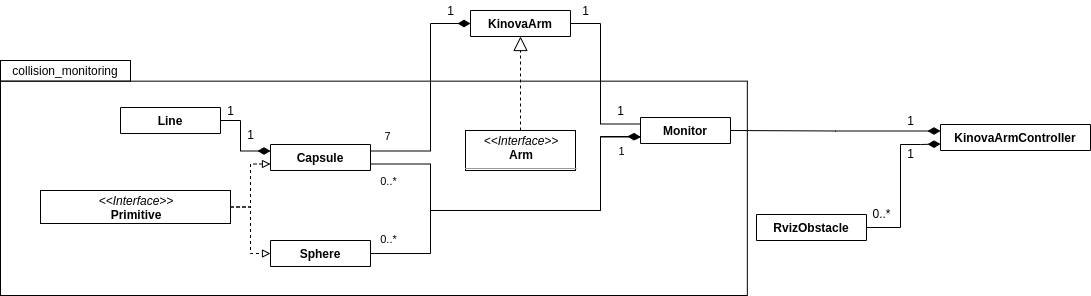
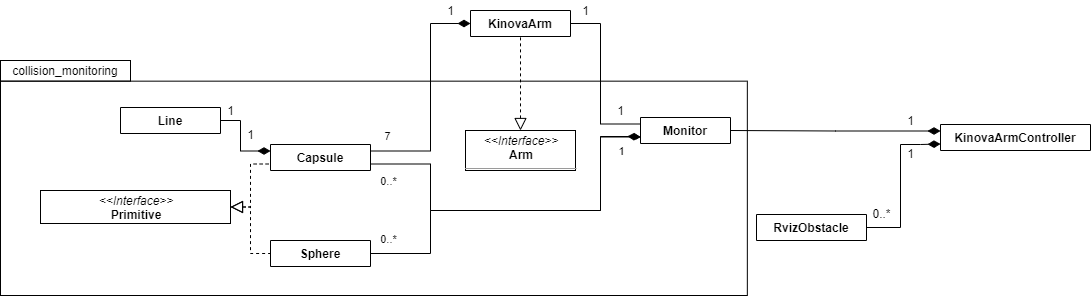
[docs] updated arrow direction

diff --git a/deliverables/latex/SS2020_Gomez_Parra_Penfold.tex b/deliverables/latex/SS2020_Gomez_Parra_Penfold.tex
@@ -58,16 +58,11 @@
 % Background, motivation and state of the art
 
 %Background ---------------
-Humanoid robots and arm like manipulators have a great many current, and potential, useful applications. Currently robotic manipulators are used in a range of manufacturing processes like painting and spot welding \cite{Fadalil}. Another great application of humanoid robotics is to help people who cannot help themselves, as a separate system, or as a prosthetic. Currently there are prosthetics available, like Dean Kamen's Luke Arm \cite{Adee}, but the control of such device is limited. In human applications the control system used in areas like manufacturing cannot be just dropped into place there are many considerations that are required from a software and hardware perspective. In manufacturing applications the manipulators typically use precomputed trajectories for robustness and efficiency, but this is unsuitable in a human environment where obstacles and goals are constantly on the move \cite{Hoffmann}. The current approach is to use a human controller to solve this problem by adding a controller in a shoe \cite{Adee} or another such interface. While this addresses the issue is can be quite taxing for the user, requiring a lot of concentration just to perform basic tasks.
+Humanoid robots and arm like manipulators have a great many, current, and potential, useful applications. Currently robotic manipulators are used in a range of manufacturing processes like painting and spot welding \cite{Fadalil}. Another great application of humanoid robotics is to help people who cannot help themselves, as a separate system, or as a prosthetic. Robotic prosthetics have been implemented previously, like Dean Kamen's Luke Arm \cite{Adee}, but the control of such device is limited. In human applications the control system used in areas like manufacturing cannot be just dropped into place, there are many considerations that are required from a software and hardware perspective. In manufacturing applications the manipulators typically use precomputed trajectories for robustness and efficiency, but this is unsuitable in a human environment, where obstacles and goals are constantly on the move \cite{Hoffmann}. The current approach in prosthetics is to use a human controller to solve this problem, by adding a joystick in a shoe \cite{Adee} or another such interface, the operator can directly control the movement of the arm. While this addresses the adaptable control issue, it can be quite taxing for the user, requiring a lot of concentration just to perform basic tasks. This solution is also not very viable for stand-alone assistant robots, the cost of training an operator would far outweigh the benefit of using a robot and operator instead of a single human nurse.
 
-A solution to the control problem is to use dynamic movement principles which can be generated during the movement itself, allowing for real-time obstacle avoidance and goal changes. Previous approaches \cite{Janabi-Sharif} used were initially not able to handle moving goals, but improvements made by H. Hoffmann et al. \cite{Hoffmann} by applying a potential field method to the process overcame this limitation. The use of dynamic movement primitives in the potential field method overcame the local minimum problem that is typically inherent with using potential fields. Hence this paper is the basis of the project.
+A solution to the control problem is to use dynamic movement primitives, which can be generated during the movement itself, allowing for real-time obstacle avoidance and goal changes. Previous approaches \cite{Janabi-Sharif} used were initially not able to handle moving goals, but improvements made by H. Hoffmann et al. \cite{Hoffmann} by applying a potential field method to the process overcame this limitation. The use of dynamic movement primitives in the potential field method also overcame the local minimum problem, that is typically inherent with potential fields. Hence this paper is the basis of the project. There are some limitations to this method and that is in the representation of the obstacles and manipulator. The method presented by H. Hoffman et al.\cite{Hoffmann} only considers points in cartesian space, where other methods, like those discussed by O. Khatib \cite{Khatib}, represent objects as basic primitives with given volume and shape.
 
-%State of the art -----------
-% This paper only considers the end-effector 
-% Paper considers the velocity direction and obstacle direction
-% Does not consider distance 
-
-For the objects to be avoided first they must be located relative to the manipulator, and that is the core concept of the library built for this project. Biologically-inspired dynamical systems for movement generation \cite{Hoffmann} does not tackle the problem of distances between objects, instead a precursor paper was used, Real-Time Obstacle Avoidance for Manipulators and Mobile Robots \cite{Khatib}. This paper goes into details on how to find the distance between two obstacles, which was modified to find the vector, allowing for it to be applied to the dynamic movements primitives control algorithm discussed in Biologically-inspired dynamical systems for movement generation \cite{Hoffmann}.
+For objects to be avoided first they must be located relative to the manipulator, and that is the core concept of the library built for this project. Biologically-inspired dynamical systems for movement generation \cite{Hoffmann} does not tackle the problem of distances between objects, instead a precursor paper was used, Real-Time Obstacle Avoidance for Manipulators and Mobile Robots \cite{Khatib}. This paper goes into details on how to find the distance between two obstacles, which was modified to find the vector, allowing for it to be applied to the dynamic movements primitives control algorithm discussed in Biologically-inspired dynamical systems for movement generation \cite{Hoffmann}. The combination of these two techniques, along with the addition of distance monitoring with all links, produces a safer algorithm. The combination of the two techniques means that both the volume of the object is considered,and the trajectory planning can occur online allowing it to be adapted to any changes in a fast, efficient manner. These properties along with the addition of obstacle distances relative to all links means that humanoid robots and manipulators are more robust and safer to use in dynamic, human environments.
 %Robotic assistants
 
 \section{Approach}
@@ -175,16 +170,23 @@ Where $\gamma$ and $\beta$ are constants, and R is a rotation matrix which rotat
 \dot{v} = K ( g - x ) - D v + p(x, v)
 \end{equation}
 
+\begin{figure*}[t]
+	\centering
+	\includegraphics[scale=0.25]{images/rosgraph_single.png}
+	\caption{ROS node graph for single arm}
+	\label{fig:rosgraph_single}
+\end{figure*}
+
 \subsection{Collision monitoring library} %Sam
 
 Our library was designed to be platform and framework independent. To achieve this, the library user must implement the Arm interface. This provides the flexibility of choosing how to describe mathematically the manipulator and update its position. Consider the case of two developers, one wants to use KDL for the forward and backwards kinematics, while the other one wants to derive the equations manually for a closed form solution. Both developers are supported by this library. 
 
 In order to monitor the distances from the links of the arm to the obstacles in the workspace we represent the geometry of the links with the use of capsules. This representation enables us to calculate the distances between the links themselves in order to monitor self-collisions along with regular obstacles. This requires that the developer updates the geometric representation alongside the arm’s movement in the Arm implementation. 
 
-
 \subsection{Controller} %Sam
 
 The manipulator is controlled with a control loop that is executed at a specified rate. This loop is responsible for updating the geometric representation to match the real life manipulator and calculate the new velocity with the collision avoidance algorithm. In the loop the developer must keep the current position, velocity, positions of obstacles, and goal updated for the algorithm to produce an accurate output. 
+ 
  
 \section{Implementation} %Brennan
 The final product that combines all the obstacle monitoring and avoidance techniques was implemented using the Robotic operating system (ROS) framework, specifically ROS Kinetic. ROS has a few advantages in this area, the first and foremost being the Kinova Kortex library\cite{kortex}, which is a high and low level control API for Kinova robotic manipulators, including the one chosen for demonstration. This library has a lot of useful features from the MoveIt control algorithm to the fully fledged gazebo simulation of the arm. The final software produced does actually rely on any of the Kortex libraries, but was instrumental in testing and development.
@@ -199,40 +201,37 @@ While rudimentary, as it doesn't consider inertia or any other complex parameter
 
 The basic ROS node graph can be seen in \ref{fig:rosgraph_single} where the interfacer is a basic terminal interface to send goals to the arm controller and the visualisation is performed by the built-in robot\_state\_publisher node and Rviz.
 
-\begin{figure*}[t]
-	\centering
-	\includegraphics[scale=0.25]{images/rosgraph_single.png}
-	\caption{ROS node graph for single arm}
-	\label{fig:rosgraph_single}
-\end{figure*}
 
 \section{Experiments}
 
 \subsection{Collision Monitoring} %Brennan
 The collision monitoring library has no real room for errors, the distance between objects was confirmed using Geogebra models, and the rest of the software relies on those calculations. The core performance measure of the collision monitoring library can be considered speed, hence the use of C++ instead of a higher level interpreted language like python. The performance test was performed on an Ubuntu 16.04 machine with a Intel Core i5-7200U 2.5GHz CPU. The following operations were timed using the C++ chrono library:
 \begin{itemize}
-	\item The joint initialisation of one kinova\_arm and monitor class
-	\item The combiniation of intitialising a sphere and adding it to the monitor class
-	\item The distance\_to\_object function, calculating the distance from each of the manipulators links to the obstacle
-	\item The distance\_to\_links funstion, measureing the distance from each of the links to the other links in the same manipulator
+	\item The joint initialisation of one KinovaArm and Monitor class.
+	\item The combination of initialising a Sphere and adding it to the Monitor class.
+	\item The updatePose function, which updates the internal kinematic representation of the arm.
+	\item The distanceToObjects function, calculating the distance from each of the manipulators links to the obstacle.
+	\item The distanceBetweenArmLinks function, measuring the distance from each of the links to the other links in the same manipulator.
 \end{itemize}
 
 \subsubsection{Results}
 Each operation was performed 100 times and the average result given in table \ref{table:Function Times} below.
 
-\begin{table}[]
+\begin{table}[H]
 	\centering
 	\begin{tabular}{|l|l|}
 		\hline
-		& Time (seconds) \\ \hline
-		Init arm and monitor   & 0.00064447     \\ \hline
-		Init and add object    & 0.00000204     \\ \hline
-		Distance to obstacle   & 0.00009953     \\ \hline
-		Distance to self links & 0.00155911     \\ \hline
+		Operation & Time (seconds) \\ \hline
+		Init arm and monitor   & 0.00103831     \\ \hline
+		Init and add object    & 0.00000276     \\ \hline
+		Update the arm position& 0.00012871     \\ \hline
+		Distance to obstacle   & 0.00026022     \\ \hline
+		Distance to self links & 0.00199209     \\ \hline
 	\end{tabular}
+	\caption{Execution times for collision monitoring tasks}
 	\label{table:Function Times}
 \end{table}
-
+From a cursory glance it is clear that the functions are quite fast all operations take less than two milliseconds to complete, but some of the operations are not as fast as desired. The initialisation operations are not that important when is comes to overall speed, since they tend to only be run at the start of the program, and potentially at random intervals the program for the obstacle initialisation. The distance to obstacles and between arm links along with the update function are the main operations to be concerned with, these run every loop and determine the final update rate of the software. The update rate of the arm is very quick, and the distance to obstacles only taking twice as much. It is important to note though that the time for distance to obstacles to execute relies on the number of obstacles, as the number of obstacles increases so does the time to calculate, in a linear fashion. This means that with 40 obstacles the software will be restricted to ~10Hz. Assuming only one obstacle the other large impact to overall performance in the distance to self links operation, taking up over four times the time used by the other two core functions combined. This was somewhat expected, if not to this extent, since the software was designed for portability in mind, which limits the possible optimisations available, still further investigation into the limiting factors to should be performed.
 
 
 
@@ -259,8 +258,8 @@ Finally, one can also use this library to prevent the collision of the end-effec
 This can be done by implementing the Arm interface and adding each link of the robot as an obstacle represented by a capsule.
 
 \section{Conclusion} %Alan
-The computation of the distances between different kinds of objects is not easy, one needs to take into consideration different scenarios, 
-otherwise, the main algorithm might fail. Further work on this area could be adding other kinds of shapes.
+For robots and robotic manipulators to be used in a human environment they first need to be able to adapt to a constantly changing, dynamic environment. This can be done in a robust and safe manner using a combination of two different methods discussed by H. Hoffmann et al.\cite{Hoffmann} and O. Khatib \cite{Khatib}. by implementing the obstacle monitoring by O. Khatib \cite{Khatib} and the collision avoidance by H. Hoffmann et al.\cite{Hoffmann}, along with monitoring collisions for all links, robotic manipulators are more resilient to changes in obstacle and goal placement. While there is improvement the final algorithm is by no means complete 
+The computation of the distances between different kinds of objects is not easy, one needs to take into consideration different scenarios, otherwise, the main algorithm might fail. Further work on this area could be adding other kinds of shapes.
 
 
 \addtolength{\textheight}{-12cm}   % This command serves to balance the column lengths
